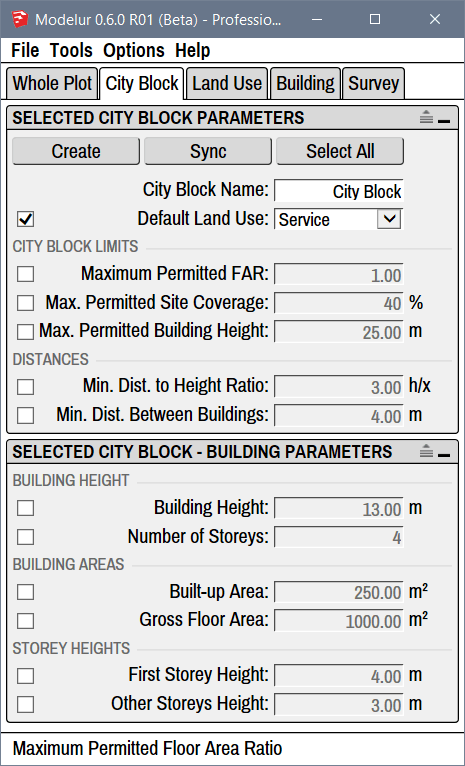
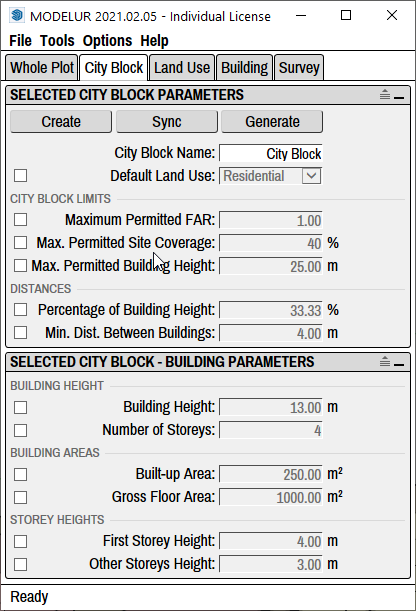
Describe Massing Generator

diff --git a/docs/reference/menu.md b/docs/reference/menu.md
@@ -5,20 +5,19 @@ four sub-categories: [File](#file), [Tools](#tools), [Options](#options) and
 ![Modelur Menu](../img/modelur_ui_parts_menu_annotated.png)
 <figcaption>Figure 4.01 - Location of Modelur Menu.</figcaption>
 
-File
-----
+## File
 
 Here you can open existing files or export your data.
 
-**File → Open**
+#### Open
 
 Opens a dialog window that allows you to open existing SKP file.
 
-**File → Import GIS Data…**
+#### Import GIS Data…
 
 Clicking on this button will bring up [GIS import](../gis) window.
 
-**File → Export to GeoJSON…**
+#### Export to GeoJSON…
 
 Clicking on this button will save your Buildings and City Blocks as WGS84 GeoJSON
 which you can use in GIS software of your choice (eg. QGis, ArcGis, etc.).
@@ -26,7 +25,7 @@ Files are stored next to your SKP file. They have the same base name as your SKP
 file and appended _buildings_##, _complex_buildings_## and _city_blocks_## 
 suffixes. Each time you export the data, number identifier is raised by 1.
 
-**File → Export Urban Design Control Values…**
+#### Export Urban Design Control Values…
 
 This is used to export urban control values (such as Gross Floor Area, FAR, 
 Required number of parking lots, etc.) of currently opened model into CSV file. 
@@ -58,7 +57,7 @@ sign in the spreadsheet software you are using._
 file (left window) and imported to the spreadsheet software (right window).
 </figcaption>
 
-**File → Download OSM 3D Buildings**
+#### Download OSM 3D Buildings
 
 In order to generate Open Street Map (OSM) 3D Building's volumes 
 (Figure 4.04), you first need to geolocate your model using SketchUp's 
@@ -81,7 +80,7 @@ your model via OSM data import.</figcaption>
     defined. When this is the case, Modelur will take default building 
     parameter from Whole Plot or City Block at the time of creation.
 
-**File → Download OSM 2D Urban Morphology**
+#### Download OSM 2D Urban Morphology
 
 In order to generate OSM 2D Urban Morphology, you first need to geolocate 
 your model using SketchUp's geolocation feature (File -> Geo-location -> 
@@ -90,12 +89,11 @@ Urban Morphology button will create you floor plans of buildings for selected
 area. The new floor plans will be placed into a separate group and placed on 
 separate layer.
 
-Tools
------
+## Tools
 
 Here is a set of tools that help you work faster and more efficiently.
 
-**Open Urban Control Data Table**
+#### Open Urban Control Data Table
 
 This will open a new, interactive Window with the complete urban control data of 
 your model inside SketchUp (Figure 4.04). By clicking on the appropriate checkboxes 
@@ -120,7 +118,7 @@ it is constructed can be shown. Just select _Complex Buildings Land Uses_ and/or
 _Complex Buildings Parts_ on top of the Window. These options are available for 
 selection only if _Complex Building_ option is selected.
 
-**Randomize Building Heights**
+#### Randomize Building Heights
 
 Using this functionality you can randomize selected Buildings number of storeys. Once 
 Buildings are selected, click on this button and you will be presented with two options. 
@@ -139,14 +137,14 @@ Select a surface, click on this tool and select a file with appropriate texture
 from your computer. Valid texture file formats are: .png, .jpg, .psd, .bmp, 
 .tif and .tga.)
 
-**Place Buildings on Selected Terrain** 
+#### Place Buildings on Selected Terrain
  
 Using this will "drop" all Modelur Buildings to the terrain of your choice. 
 This is particularly useful when working on sloped terrains and you need the 
 buildings to sit nicely on it. In order to use this functonality, just select the  
 terrain in question and click this button. 
 
-**Calculate Form Factor**
+#### Calculate Form Factor
 
 *Form Factor* calculation is used to estimate the potential of Building's energy 
 efficiency. The lower the Form Factor, the more compact a Building is. And the 
@@ -182,7 +180,7 @@ Building (e.g. walls, roofs, terraces).
         You can call Form Factor Calculation also via Context menu. To do so, 
         just right-click on the Building and select Modelur → Calculate Form Factor.
 
-**Optimize Buildings for Google Earth**
+#### Optimize Buildings for Google Earth
 
 Once your urban design proposal is finished, you might want to export it to 
 geolocated KMZ file, which can be opened by many programs, including [Google 
@@ -191,20 +189,23 @@ Modelur will automatically optimize all Modelur Buildings by removing all
 unnecessary faces. If you want, you can also tell it to export floor Edges, 
 so that the Building's storeys are visible inside Google Earth.  
 
-Options
--------
+#### Massing Generator
 
-**Language**
+This entry will open [Massing Generator](../massing_generator) window that enables you to quickly populate existing [City blocks](../city_block).
+
+## Options
+
+#### Language
 
 Set Modelur to your preferred language. Note that Modelur is officially 
 supported in English only for time being.
 
-**Units**
+#### Units
 
 Set chosen units, either metric (meters) or imperial (feet). Switching this 
 option will also switch SketchUp's dimension units.
 
-**Default Building Shape**
+#### Default Building Shape
 
 When nothing is selected in your model, Modelur can create a Building or 
 Complex Building at model's origin. Here you can set what shape should such 
@@ -212,7 +213,7 @@ default building be (Square, Circle or L-Shape). If you selecte empty value
 in the dropdown, Modelur will not create new (Complex) Building if there are 
 no proper objects (eg. Face or closed Edge loop) in the selection.
 
-**Buildings From Edges**
+#### Buildings From Edges
 
 Tell Modelur if and how it should create Buildings or City Blocks when edges 
 are selected. There are three options: _Don't Create_, _From One Edge_ and _From Edge Loop_.
@@ -237,7 +238,7 @@ _Default Building Area_ (as defined in [Default Building Parameters](../whole_pl
  in [Default Building Parameters](../whole_plot/#default-building-parameters)) 
  or switch to Line tool so you can draw new City Block.
 
-**Calculate FAR Based On**
+#### Calculate FAR Based On
 
 Tell Modelur whether you want to calculate Whole Plot's and City Blocks Floor Area 
 Ratio based on Gross or Net Floor Area of Buildings. _By default this option is 
@@ -248,7 +249,7 @@ set to Gross Floor Area._
     which value (Gross or Net) is shown when Heads-up Display is showing Sum 
     of Selected Buildings.
 
-**Lock City Blocks Upon Creation**
+#### Lock City Blocks Upon Creation
 
 Automatically locks City Blocks when they are created. This means a City Block 
 can not be moved around the screen. This way you avoid accidentally moving a
@@ -257,57 +258,57 @@ City Block and spoiling your project.
 If you do need to move a City Block, you can unlock it by right-clicking on 
 the City Block and then selecting _Unlock_.
 
-**Apply City Blocks LU Material**
+#### Apply City Blocks LU Material
 
 Each City Block will be colored according to it's Land use (if the Land use has 
 a specified color). You can specify a color for each Land Use in Land Use tab.
 
-**Synchronize Land Use Panels**
+#### Synchronize Land Use Panels
 
 Keep Land Use Panels between Input data and Survey tab in sync. This means 
 the Land Use you select in _Land Use_ tab will also become selected (and 
 displayed) in _Urban Control - Land Use_ section of the _Survey_ tab and the other way around.
 
-**Show Status Bar**
+#### Show Status Bar
 
 Status Bar is located at the bottom of the User Interface. Status Bar shows 
 short descriptions of Modelur options and functionalities when you hover over them.
 
-**Show Building's Built-up Area**
+#### Show Building's Built-up Area
 
 Show built-up area face at the bottom of each Modelur Building.
 
-**Mark Terraces and Loggias**
+#### Mark Terraces and Loggias
 
 Apply green color to all Terraces and pink color to all Loggias. This way you can 
 easily see how many Terraces and how many Loggias there are in your project.
 
-**Sync Building's Layer**
+#### Sync Building's Layer
 
 If this option is turned on, Modelur will make sure that all Modelur Building's 
 Entities (Edges and Faces) are placed on the same layer as the Building itself. 
 The same is true for Complex Buildings and City Blocks. By default this option 
 is turned on.
 
-**Change Currency Symbol**
+#### Change Currency Symbol
 
 Opens up a dialog box for specifying new currency symbol. This currency symbol 
 is shown in section _Investment calculation_ of the _Land use_ tab where
 you define estimated price per square meter for Buildings with the chosen 
 Land Use assigned. This enables Modelur to calculate estimated cost of the whole Building.
 
-**Save Default Settings**
+#### Save Default Settings
 
 You can save your preferred settings combination as default by clicking on 
 _Save Default Settings_. This settings will then be used every time you 
 initialize new Modelur model.
 
-**Restore Default Settings**
+#### Restore Default Settings
 
 Reset Modelur to default settings. When applied please restart SketchUp 
 and Modelur.
 
-**Store Land Use changes**
+#### Store Land Use changes
 
 When this option is checked, Modelur will save each Land Use change to 
 temporary Land Use specifications file. Turn this feature on if you want 
@@ -315,8 +316,7 @@ to copy/paste Buildings and City Blocks with non-default Land Uses between
 different SKP models. The file `stored_land_uses.json`, is saved into 
 your Modelur [Appdata folder](../../getting-started#modelur-location).
 
-Help
-----
+## Help
 
 Help section contains links to this User guide, Video tutorials, 
 Modelur website and Modelur forum.

diff --git a/docs/reference/massing_generator.md b/docs/reference/massing_generator.md
@@ -1,0 +1,81 @@
+# Massing Generator
+
+*Available in versions 2021.3.17 and higher*
+
+Modelur offers a simple massing generator that can quickly populate existing [city blocks](../city_block) with buildings. The generator will randomly generate buildings on the selected *city blocks* so that the [Maximal permitted FAR](../city_block#city-block-limits) is achieved on each of the selected city blocks. The generated buildings will be of different dimensions and [land uses](../land_use). 
+
+!!! note
+
+    The solutions that the massing generator provides are randomly generated, so the quality of the design will vary greatly among different runs of the generator. Depending on the geometry of the city block, some absurd buildings might be generated. Especially on smaller city blocks, the target 
+    value of Floor Area Ratio might not be achieved.
+
+## Using the generator
+
+#### From City Block tab
+
+To generate buildings open the [City Block tab](../city_block), select the city blocks you want to populate and press *Generate* button:
+
+![Generate Button](../img/generate_city_block_tab.png)
+
+When you press the button *Generate*. Modelur will populate the selected city blocks that are empty (without modelur buildings) so that the [maximal permitted FAR](../city_block##city-block-limits) for that city block will be achieved.
+
+#### From Massing Generator Window
+
+To open massing generator window select *Tools -> Massing Generator* from the [menu](../menu)
+
+![Tools -> Massing Generator](../img/tools_massing_generator.png)
+
+A new window with [generator options](#generator-options) and *Generate* and *Clear* buttons will be opened, where you can set the options and run the generator:
+
+![Massing Generator settings](../img/massing_generator.png)
+
+#### Generate Button
+
+Clicking *Generate* button will run the generator. A warning will be issued if no city block is selected or if some of the selected city blocks are not empty.
+
+#### Clear Button
+
+When clicking the *Clear* button, the buildings will be deleted on all of the selected city blocks. A warning will be issued if no city blocks are selected or if selected city blocks are empty.
+
+## Generator options
+
+Select *Tools -> Massing Generator* in the [menu](../menu) to access the window with massing generator settings.
+
+
+#### Setback and Distance
+
+** Setback **
+
+The distance of the generated buildings from the border of the city block. The default is 4m. If the value is 0, the buildings will be generated along the border of the city block. The value should be 0 or positive.
+
+** Distance between buildings **
+
+The distance between generated buildings will be precisely the specified amount. The default is 14m. The value should be positive.
+
+#### Building Dimensions
+
+** Minimum Building Width **
+
+The width of the generated buildings will be larger that selected amount. The default value is 20m. The value should be positive.
+
+** Maximum Building Width **
+
+The width of the generated buildings will be smaller that selected amount. The default value is 20m. The value should be positive.
+
+** Maximum Building Length **
+
+In length of the generated buildings will be smaller than this amount. The default value is 80m.
+
+#### Generator Strategy
+
+The generator can cover different amount of area, depending on the selected strategy. We provide two strategies.
+
+** Max. Heights / Min. Site Coverage **
+
+The generator will try to achieve minimal site coverage.
+
+To allow some variance in building heights, the site coverage will actually not be minimal possible. If the generator would cover the minimal amount of area, all of the generated buildings would have the [maximal allowed height](../city_block#city-block-limits). To avoid that, the achieved site coverage will not be the least possible for the [maximal allowed FAR](../city_block#city-block-limits), but it will be a bit higher.
+
+** Min. Heights / Max. Site Coverage **
+
+When using this strategy, the generator will cover as much area as it is permitted by the [Maximal Site Coverage](../city_block#city-block-limits). The average height of the buildings will therefore be minimal, but the generator will try to add at least some buildings of [maximal allowed height](../city_block#city-block-limits).

diff --git a/docs/reference/city_block.md b/docs/reference/city_block.md
@@ -52,11 +52,9 @@ Sync _button_ is used to open the
 tool. With it you can easily transfer Parameter values from one City Block 
 to another.
 
-**Select All**
+**Generate**
 
-Select All _button_ is used to select all City Blocks in your project at 
-the same time. Any changes to City Block parameters will then apply to 
-all City Blocks.
+Generate _button_ is used to quickly populate selected empty City Blocks with randomly generated buildings so that the [Maximal permitted FAR](#city-block-limits) is achieved. To set options for the [massing generator](../massing_generator) use *Tools -> Massing Generator* in the [menu](../menu).
 
 #### Name and Land Use ####
 
